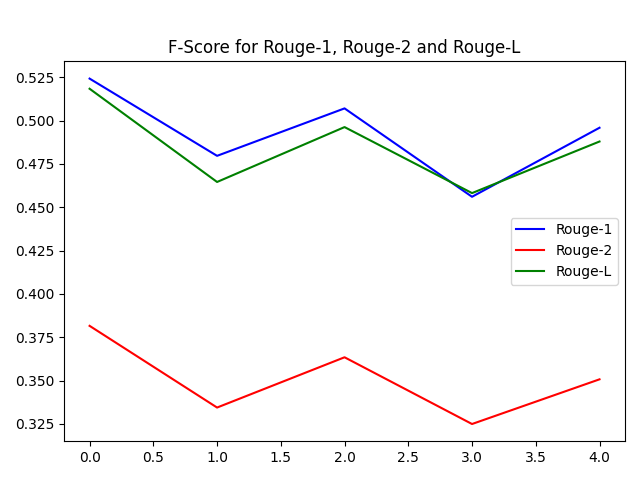
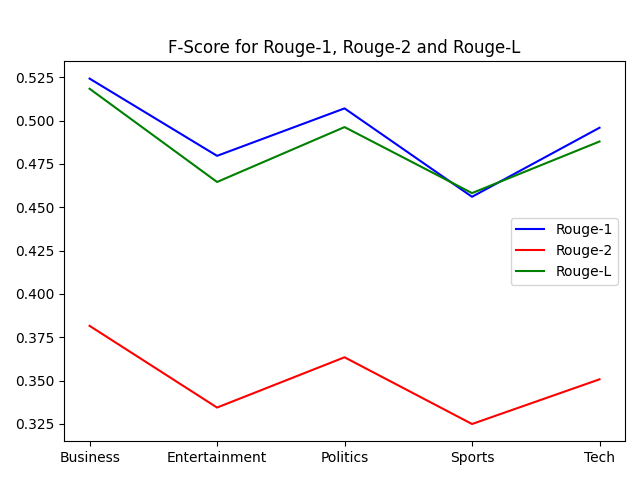
push plots

diff --git a/baseline_s_file/load_df.py b/baseline_s_file/load_df.py
@@ -124,6 +124,7 @@ r_score=pd.DataFrame([r_r1_avg_all_topics,r_r2_avg_all_topics,r_rL_avg_all_topic
 r_score.index = rouge_list
 print(r_score)
 
+
 plt.close()
 fig1,axs=plt.subplots(1)
 axs.plot([0,1,2,3,4],f_score.iloc[0,:],'b',label='Rouge-1')
@@ -132,9 +133,11 @@ axs.plot([0,1,2,3,4],f_score.iloc[2,:],'g',label='Rouge-L')
 axs.legend()
 axs.set_title("F-Score for Rouge-1, Rouge-2 and Rouge-L")
 
+axs.set_xticks([0,1,2,3,4])
+axs.set_xticklabels(["Business","Entertainment","Politics","Sports","Tech"])
 
 plt.tight_layout(rect=[0, 0, 1, 0.95])
-
+axs.xlabel("Summarized Topics")
 # sns.lineplot([0,1,2,3,4],f_score.iloc[0,:])
 fig1.savefig('f_score.png')
 
@@ -147,6 +150,10 @@ axs.plot([0,1,2,3,4],p_score.iloc[1,:],'r',label='Rouge-2')
 axs.plot([0,1,2,3,4],p_score.iloc[2,:],'g',label='Rouge-L')
 axs.legend()
 axs.set_title("P-Score for Rouge-1, Rouge-2 and Rouge-L")
+
+axs.set_xticks([0,1,2,3,4])
+axs.set_xticklabels(["Business","Entertainment","Politics","Sports","Tech"])
+
 
 
 plt.tight_layout(rect=[0, 0, 1, 0.95])
@@ -164,6 +171,10 @@ axs.plot([0,1,2,3,4],r_score.iloc[1,:],'r',label='Rouge-2')
 axs.plot([0,1,2,3,4],r_score.iloc[2,:],'g',label='Rouge-L')
 axs.legend()
 axs.set_title("R-Score for Rouge-1, Rouge-2 and Rouge-L")
+
+axs.set_xticks([0,1,2,3,4])
+axs.set_xticklabels(["Business","Entertainment","Politics","Sports","Tech"])
+
 
 
 plt.tight_layout(rect=[0, 0, 1, 0.95])
